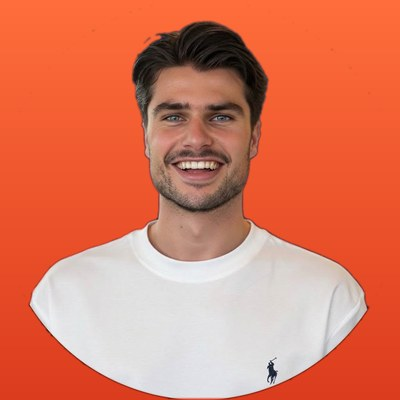
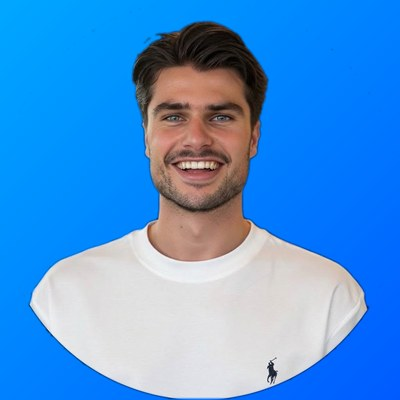
Nieuwe huisstijl: blauw schildlogo, merkkleur blauw, nieuwe og-afbeelding en covers
Claude-Session: https://claude.ai/code/session_011wL1KZWUErbCLd6CxVXXmA

diff --git a/static/style.css b/static/style.css
@@ -10,9 +10,13 @@
   --muted: #6b6f78;
   --line: #e4e1db;
   --line-strong: #cfcbc3;
-  --accent: #ff4d2e;
-  --accent-ink: #c8301a;      /* leesbare variant voor tekst op licht */
-  --accent-soft: #fff0ec;
+  --accent: #0a8dff;          /* merkblauw uit het logo */
+  --accent-ink: #0057d6;      /* leesbare variant voor tekst op licht */
+  --accent-soft: #eaf4ff;
+  --accent-grad: linear-gradient(135deg, #00a8ff, #005bff);
+  --danger: #e5391c;          /* actief misbruikt / kritiek */
+  --danger-ink: #b92a12;
+  --danger-soft: #fff0ec;
   --ok: #157a4a;
   --ok-soft: #e6f4ec;
   --warn: #a35a00;
@@ -37,8 +41,10 @@
   --muted: #8b919c;
   --line: #2a2f37;
   --line-strong: #3a404a;
-  --accent-ink: #ff7a5f;
-  --accent-soft: #2d1914;
+  --accent-ink: #5cb4ff;
+  --accent-soft: #0f2133;
+  --danger-ink: #ff7a5f;
+  --danger-soft: #2d1914;
   --ok: #4cc98a;
   --ok-soft: #13271d;
   --warn: #f0a74a;
@@ -92,7 +98,7 @@ main { padding: 24px 0 64px; min-height: 60vh; }
 .btn {
   display: inline-flex; align-items: center; gap: 6px;
   font: 600 .9rem/1 var(--font); padding: 10px 16px; border-radius: 8px;
-  background: var(--accent); color: #fff; border: 0; cursor: pointer; text-decoration: none;
+  background: var(--accent-grad); color: #fff; border: 0; cursor: pointer; text-decoration: none;
 }
 .btn:hover { color: #fff; filter: brightness(1.06); }
 .btn--small { padding: 7px 11px; font-size: .8rem; }
@@ -107,17 +113,17 @@ main { padding: 24px 0 64px; min-height: 60vh; }
 
 /* Pulserende stip */
 .pulse {
-  display: inline-block; width: 8px; height: 8px; border-radius: 50%; background: var(--accent);
+  display: inline-block; width: 8px; height: 8px; border-radius: 50%; background: var(--danger);
   margin-right: 8px; vertical-align: middle; position: relative; flex: none;
 }
 .pulse::after {
-  content: ""; position: absolute; inset: 0; border-radius: 50%; background: var(--accent);
+  content: ""; position: absolute; inset: 0; border-radius: 50%; background: var(--danger);
   animation: pulse 1.8s ease-out infinite;
 }
 @keyframes pulse { from { transform: scale(1); opacity: .7; } to { transform: scale(3); opacity: 0; } }
 
 /* Ticker */
-.ticker { background: #111317; color: #e9ebee; font-size: .85rem; border-bottom: 2px solid var(--accent); }
+.ticker { background: #111317; color: #e9ebee; font-size: .85rem; border-bottom: 2px solid var(--danger); }
 .ticker__inner { display: flex; align-items: center; gap: 16px; height: 38px; overflow: hidden; }
 .ticker__label {
   flex: none; display: inline-flex; align-items: center; font-weight: 700; text-transform: uppercase;
@@ -141,12 +147,14 @@ main { padding: 24px 0 64px; min-height: 60vh; }
 /* Masthead + nav */
 .masthead { background: var(--surface); border-bottom: 1px solid var(--line); }
 .masthead__inner { display: flex; align-items: center; justify-content: space-between; height: 68px; gap: 12px; }
-.logo { display: inline-flex; align-items: center; gap: 10px; text-decoration: none; color: var(--text); font: 600 1.25rem/1 var(--font); letter-spacing: -.02em; }
-.logo svg { width: 30px; height: 30px; color: var(--accent); flex: none; }
-.logo b { color: var(--accent-ink); font-weight: 700; }
+.logo { display: inline-flex; align-items: center; gap: 9px; text-decoration: none; color: var(--text); }
+.logo img { width: 38px; height: 38px; flex: none; }
+.logo__text { display: flex; flex-direction: column; font: 400 1.02rem/1.02 var(--font); letter-spacing: -.02em; }
+.logo__text b { font-weight: 700; font-size: 1.08rem; }
+.logo__text em { font-style: normal; color: var(--accent); }
 .logo:hover { color: var(--text); }
 .masthead__tools { display: flex; align-items: center; gap: 6px; }
-@media (max-width: 420px) { .logo { font-size: 1.05rem; } .logo svg { width: 26px; height: 26px; } }
+@media (max-width: 420px) { .logo__text { font-size: .92rem; } .logo__text b { font-size: .98rem; } .logo img { width: 32px; height: 32px; } }
 
 .nav { border-top: 1px solid var(--line); }
 .nav__inner { display: flex; gap: 2px; overflow-x: auto; scrollbar-width: none; }
@@ -167,14 +175,14 @@ main { padding: 24px 0 64px; min-height: 60vh; }
   font: 600 .72rem/1.3 var(--font); letter-spacing: .01em; white-space: nowrap;
   border: 1px solid transparent;
 }
-.badge--exploit { background: var(--accent); color: #fff; }
+.badge--exploit { background: var(--danger); color: #fff; }
 .badge--zeroday { background: var(--zd-soft); color: var(--zd); border-color: color-mix(in srgb, var(--zd) 30%, transparent); }
-.badge--sev-kritiek { background: var(--accent-soft); color: var(--accent-ink); border-color: color-mix(in srgb, var(--accent) 35%, transparent); }
+.badge--sev-kritiek { background: var(--danger-soft); color: var(--danger-ink); border-color: color-mix(in srgb, var(--danger) 35%, transparent); }
 .badge--sev-hoog { background: var(--warn-soft); color: var(--warn); border-color: color-mix(in srgb, var(--warn) 30%, transparent); }
 .badge--patch { background: var(--ok-soft); color: var(--ok); border-color: color-mix(in srgb, var(--ok) 30%, transparent); }
 
 .sev { font-weight: 600; padding: 1px 7px; border-radius: 4px; font-size: .85em; }
-.sev--kritiek { background: var(--accent-soft); color: var(--accent-ink); }
+.sev--kritiek { background: var(--danger-soft); color: var(--danger-ink); }
 .sev--hoog { background: var(--warn-soft); color: var(--warn); }
 .sev--middel { background: var(--surface-2); color: var(--text-2); }
 .sev--laag, .sev--info { background: var(--surface-2); color: var(--muted); }
@@ -221,14 +229,14 @@ main { padding: 24px 0 64px; min-height: 60vh; }
 .panel { background: var(--surface); border: 1px solid var(--line); border-radius: var(--radius); padding: 18px; }
 .panel + .panel { margin-top: 16px; }
 .panel__title { font: 700 .78rem/1.2 var(--font); text-transform: uppercase; letter-spacing: .08em; margin: 0 0 12px; display: flex; align-items: center; color: var(--text); }
-.panel--urgent { border-color: color-mix(in srgb, var(--accent) 45%, var(--line)); background: linear-gradient(180deg, var(--accent-soft), var(--surface) 140px); }
-.panel--urgent .panel__title { color: var(--accent-ink); }
+.panel--urgent { border-color: color-mix(in srgb, var(--danger) 45%, var(--line)); background: linear-gradient(180deg, var(--danger-soft), var(--surface) 140px); }
+.panel--urgent .panel__title { color: var(--danger-ink); }
 .panel__links { margin-top: 10px; }
 .urgent-list { list-style: none; margin: 0; padding: 0; }
 .urgent-list li { padding: 10px 0; border-top: 1px solid var(--line); }
 .urgent-list li:first-child { border-top: 0; padding-top: 0; }
 .urgent-list a { display: block; text-decoration: none; font-weight: 500; line-height: 1.35; }
-.urgent-list code { display: block; color: var(--accent-ink); font-size: .75rem; margin-bottom: 2px; }
+.urgent-list code { display: block; color: var(--danger-ink); font-size: .75rem; margin-bottom: 2px; }
 .more { display: inline-block; font-size: .85rem; font-weight: 600; color: var(--accent-ink); text-decoration: none; margin-top: 8px; }
 .more:hover { text-decoration: underline; }
 
@@ -267,7 +275,7 @@ main { padding: 24px 0 64px; min-height: 60vh; }
 .page-head[class*="cat-"] h1 { text-decoration: underline; text-decoration-color: var(--cat); text-decoration-thickness: 4px; text-underline-offset: 8px; }
 .page-head__intro { color: var(--text-2); font-size: 1.05rem; max-width: 65ch; margin: 12px 0 0; }
 .eyebrow { font: 700 .72rem/1 var(--font); text-transform: uppercase; letter-spacing: .1em; color: var(--muted); margin: 0 0 10px; display: flex; align-items: center; }
-.page-head--urgent .eyebrow { color: var(--accent-ink); }
+.page-head--urgent .eyebrow { color: var(--danger-ink); }
 .empty { padding: 40px 0; }
 
 .pager { display: flex; align-items: center; justify-content: center; gap: 16px; margin-top: 36px; flex-wrap: wrap; }
@@ -416,7 +424,7 @@ main { padding: 24px 0 64px; min-height: 60vh; }
 .threat { --lvl: var(--ok); }
 .threat--verhoogd { --lvl: #d99a00; }
 .threat--hoog { --lvl: #e8590c; }
-.threat--kritiek { --lvl: var(--accent); }
+.threat--kritiek { --lvl: var(--danger); }
 .threat__meter { display: grid; grid-template-columns: repeat(4, 1fr); gap: 4px; margin-bottom: 8px; }
 .threat__meter span { height: 8px; border-radius: 4px; background: var(--surface-2); }
 .threat__meter span.on { background: var(--lvl); }
@@ -455,7 +463,7 @@ main { padding: 24px 0 64px; min-height: 60vh; }
 /* Redactie */
 .person { display: flex; gap: 20px; align-items: flex-start; margin: 0 0 32px; flex-wrap: wrap; }
 .person__photo, .person__avatar { width: 120px; height: 120px; border-radius: 50%; object-fit: cover; flex: none; }
-.person__avatar { display: grid; place-items: center; background: var(--accent); color: #fff; font: 700 3rem var(--serif); }
+.person__avatar { display: grid; place-items: center; background: var(--accent-grad); color: #fff; font: 700 3rem var(--serif); }
 .person h2 { margin: 0; font-size: 1.6rem; }
 .person > div { flex: 1 1 260px; min-width: 0; }
 .person p { margin: 4px 0; }
@@ -498,8 +506,8 @@ main { padding: 24px 0 64px; min-height: 60vh; }
 .scam-result__head { padding: 16px 18px; border-radius: var(--radius); border-left: 5px solid; }
 .scam-result__head strong { font: 700 1.3rem var(--serif); }
 .scam-result__head p { margin: 6px 0 0; }
-.scam-result--hoog { background: var(--accent-soft); border-color: var(--accent); color: var(--text); }
-.scam-result--hoog strong { color: var(--accent-ink); }
+.scam-result--hoog { background: var(--danger-soft); border-color: var(--danger); color: var(--text); }
+.scam-result--hoog strong { color: var(--danger-ink); }
 .scam-result--middel { background: var(--warn-soft); border-color: var(--warn); }
 .scam-result--middel strong { color: var(--warn); }
 .scam-result--laag { background: var(--ok-soft); border-color: var(--ok); }

diff --git a/templates/base.html b/templates/base.html
@@ -13,7 +13,7 @@
   {% block meta %}<meta property="og:type" content="website"><meta property="og:title" content="{{ site.name }}">{% endblock %}
   {% block ogimage %}<meta property="og:image" content="{{ site.url }}/static/og-default.png"><meta name="twitter:card" content="summary_large_image">{% endblock %}
   <link rel="alternate" type="application/rss+xml" title="{{ site.name }}" href="/rss.xml">
-  <link rel="icon" href="/static/favicon.svg" type="image/svg+xml">
+  <link rel="icon" href="/static/favicon.svg" type="image/svg+xml"><link rel="apple-touch-icon" href="/static/logo-512.png"><meta name="theme-color" content="#0a8dff">
   <link rel="preconnect" href="https://fonts.googleapis.com"><link rel="preconnect" href="https://fonts.gstatic.com" crossorigin>
   <link href="https://fonts.googleapis.com/css2?family=IBM+Plex+Mono:wght@500&family=IBM+Plex+Sans:wght@400;500;600;700&family=Newsreader:opsz,wght@6..72,600;6..72,700&display=swap" rel="stylesheet">
   <link rel="stylesheet" href="/static/style.css">
@@ -36,8 +36,8 @@
 <header class="masthead">
   <div class="wrap masthead__inner">
     <a class="logo" href="/" aria-label="{{ site.name }} – home">
-      <svg viewBox="0 0 32 32" aria-hidden="true"><path d="M16 2 4 7v8c0 7.5 5.1 13.4 12 15 6.9-1.6 12-7.5 12-15V7L16 2Z" fill="currentColor"/><path d="m11 16 3.5 3.5L21.5 12" stroke="var(--bg)" stroke-width="2.6" fill="none" stroke-linecap="round" stroke-linejoin="round"/></svg>
-      <span>CyberSecurity<b>Nieuws</b></span>
+      <img src="/static/logo.svg" alt="" width="38" height="38">
+      <span class="logo__text"><b>Cybersecurity</b><span>nieuws<em>.com</em></span></span>
     </a>
     <div class="masthead__tools">
       <a class="iconbtn" href="/zoeken/" aria-label="Zoeken"><svg viewBox="0 0 24 24"><circle cx="11" cy="11" r="7"/><path d="m20 20-3.5-3.5"/></svg></a>
@@ -60,7 +60,7 @@
 <footer class="footer">
   <div class="wrap footer__grid">
     <div>
-      <a class="logo logo--footer" href="/"><span>CyberSecurity<b>Nieuws</b></span></a>
+      <a class="logo logo--footer" href="/"><img src="/static/logo.svg" alt="" width="38" height="38"><span class="logo__text"><b>Cybersecurity</b><span>nieuws<em>.com</em></span></span></a>
       <p>{{ site.description }}</p>
       <a class="btn btn--small" href="/nieuwsbrief/">Ontvang de nieuwsbrief</a>
     </div>

diff --git a/templates/home.html b/templates/home.html
@@ -9,7 +9,7 @@
      "publisher": {"@id": site.url ~ "/#org"},
      "potentialAction": {"@type": "SearchAction", "target": site.url ~ "/zoeken/?q={search_term_string}", "query-input": "required name=search_term_string"}},
     {"@type": "NewsMediaOrganization", "@id": site.url ~ "/#org", "name": site.name, "url": site.url ~ "/",
-     "logo": {"@type": "ImageObject", "url": site.url ~ "/static/og-default.png", "width": 1200, "height": 630},
+     "logo": {"@type": "ImageObject", "url": site.url ~ "/static/logo-512.png", "width": 512, "height": 512},
      "email": redactie.email, "publishingPrinciples": site.url ~ "/over/", "correctionsPolicy": site.url ~ "/redactie/#correcties",
      "actionableFeedbackPolicy": site.url ~ "/contact/", "masthead": site.url ~ "/colofon/",
      "founder": ({"@type": "Person", "name": redactie.hoofdredacteur, "url": site.url ~ "/redactie/"} if redactie.hoofdredacteur else none)}

diff --git a/pipeline/covers.py b/pipeline/covers.py
@@ -80,6 +80,41 @@ def _motif(img: Image.Image, color: tuple, seed: str, x0: int = 760, span: int =
     img.alpha_composite(layer)
 
 
+BLUE = (10, 141, 255)
+
+
+def draw_logo(img: Image.Image, x: int, y: int, scale: float = 1.0) -> None:
+    """Merklogo: blauw schild + 'Cybersecurity' / 'nieuws.com' (twee regels, wit op donker)."""
+    size = int(52 * scale)
+    shield = Image.open(ROOT / "assets" / "logo-shield.png").convert("RGBA").resize((size, size), Image.LANCZOS)
+    img.alpha_composite(shield, (x, y))
+    d = ImageDraw.Draw(img)
+    tx = x + size + int(10 * scale)
+    bold = _font("Carlito-Bold.ttf", int(26 * scale))
+    reg = _font("Carlito-Regular.ttf", int(25 * scale))
+    d.text((tx, y + int(1 * scale)), "Cybersecurity", font=bold, fill=INK)
+    d.text((tx, y + int(26 * scale)), "nieuws", font=reg, fill=INK)
+    d.text((tx + d.textlength("nieuws", font=reg), y + int(26 * scale)), ".com", font=reg, fill=BLUE)
+
+
+def make_default_og(out: Path) -> None:
+    """Standaard deelafbeelding (static/og-default.png)."""
+    img = Image.new("RGBA", (W, H), BG + (255,))
+    glow = Image.new("RGBA", (W, H), (0, 0, 0, 0))
+    gd = ImageDraw.Draw(glow)
+    for i in range(12):
+        r = 520 - i * 36
+        gd.ellipse([980 - r, 300 - r, 980 + r, 300 + r], fill=BLUE + (7,))
+    img.alpha_composite(glow.filter(ImageFilter.GaussianBlur(60)))
+    _motif(img, BLUE, "cybersecuritynieuws", 700, 480)
+    d = ImageDraw.Draw(img)
+    d.rectangle([0, 0, 12, H], fill=BLUE)
+    draw_logo(img, 80, 150, 2.4)
+    d.text((84, 340), "Het belangrijkste cybersecuritynieuws in helder Nederlands,", font=_font("Carlito-Regular.ttf", 34), fill=MUTED)
+    d.text((84, 384), "met wat je moet doen.", font=_font("Carlito-Regular.ttf", 34), fill=MUTED)
+    img.convert("RGB").save(out, "PNG", optimize=True)
+
+
 def make_cover(a: dict, categories: dict, out: Path, site_name: str = "CyberSecurityNieuws", with_title: bool = True) -> None:
     """with_title=True: deelafbeelding (og:image). False: beeldversie voor op de site (titel staat er al naast)."""
     color = CAT_COLORS.get(a["category"], ACCENT)
@@ -137,15 +172,7 @@ def make_cover(a: dict, categories: dict, out: Path, site_name: str = "CyberSecu
     if a.get("cves"):
         d.text((bx + (4 if badges else 0), by + 6), a["cves"][0], font=_font("JetBrainsMono-Bold.ttf", 22), fill=(255, 143, 120))
 
-    # logo onderaan
-    ly = H - 62
-    sx = x
-    shield = [(sx + 14, ly - 4), (sx, ly + 2), (sx, ly + 14), (sx + 14, ly + 30), (sx + 28, ly + 14), (sx + 28, ly + 2)]
-    d.polygon(shield, fill=ACCENT)
-    d.line([(sx + 8, ly + 13), (sx + 13, ly + 18), (sx + 21, ly + 8)], fill=BG, width=4)
-    name_font = _font("Carlito-Bold.ttf", 28)
-    d.text((sx + 42, ly - 2), "CyberSecurity", font=name_font, fill=INK)
-    d.text((sx + 42 + d.textlength("CyberSecurity", font=name_font), ly - 2), "Nieuws", font=name_font, fill=ACCENT)
+    draw_logo(img, x, H - 74)
 
     out.parent.mkdir(parents=True, exist_ok=True)
     img.convert("RGB").save(out, "PNG", optimize=True)

diff --git a/CLAUDE.md b/CLAUDE.md
@@ -63,6 +63,7 @@ tools/indexnow.py        # meldt recente pagina's aan bij IndexNow (workflow-job
 - Dreigingsniveau op voorpagina (build.threat_level). Advertenties via config `ads` (slots sidebar/artikel; met van/tot), anders huisadvertentie naar /adverteren/. Partnerartikel: type "partner" + `sponsor: {name,url}` → label Gesponsord, links rel=sponsored.
 - Artikel-velden: `updated` (ISO) + `update_note` tonen "Bijgewerkt"/update-blok.
 - SEO: WebSite+NewsMediaOrganization JSON-LD op home; verificatiecodes Google/Bing via config `zoekmachines`; IndexNow-sleutelbestand in dist/; standaard og-afbeelding static/og-default.png (block `ogimage`).
+- Huisstijl (25 nov 2026): eigen logo van eigenaar = blauw schild met slot + 'Cybersecurity / nieuws.com'. static/logo.svg (= favicon), static/logo-512.png (JSON-LD/apple-touch), assets/logo-shield.png (covers.draw_logo). Merkkleur blauw `--accent #0a8dff` (verloop #00a8ff→#005bff); rood `--danger` alleen voor actief misbruikt/kritiek. og-default via covers.make_default_og. Redactiefoto met blauwe achtergrond.
 - Thema-attribuut heet `data-mode` (niet data-theme: botst met de Claude-artifactviewer).
 
 ## Eventueel later
